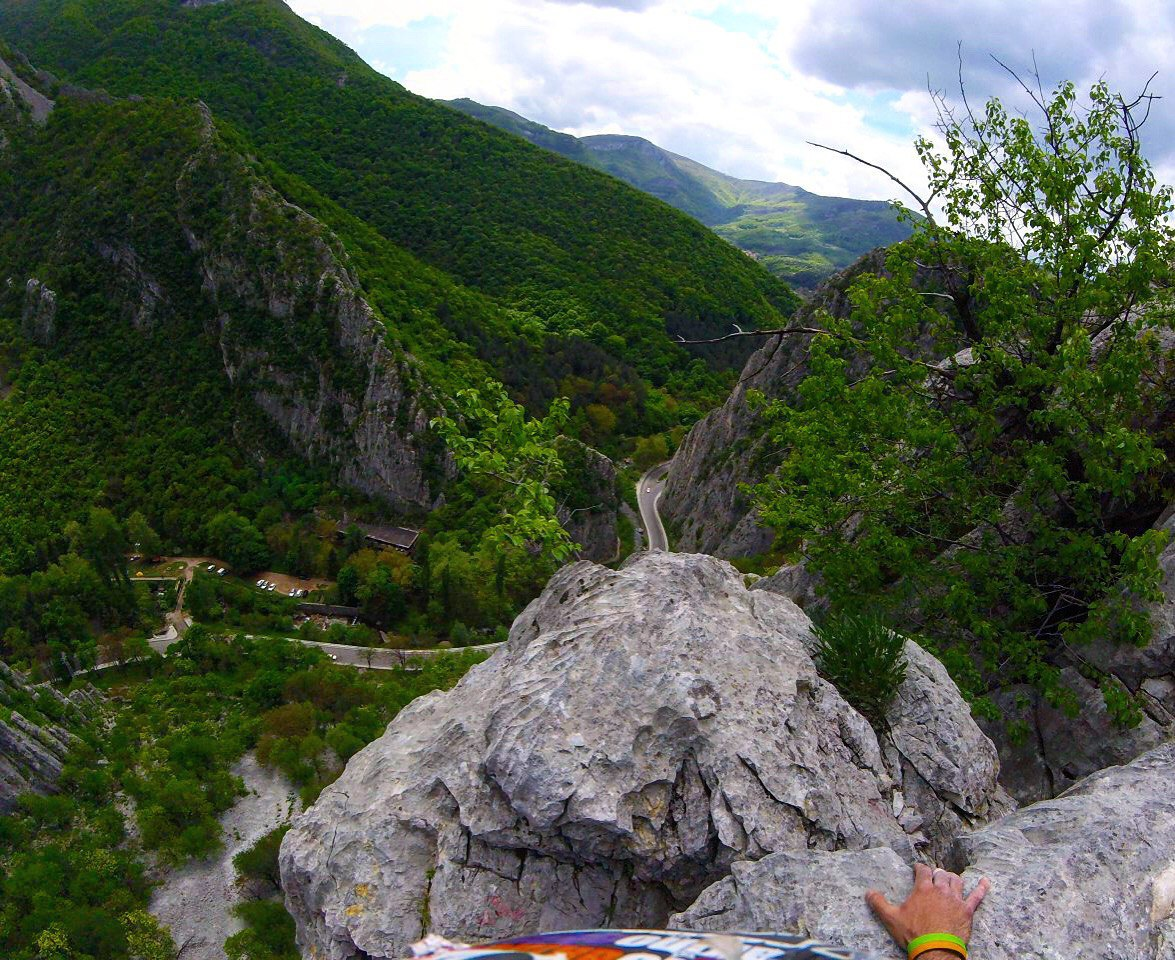
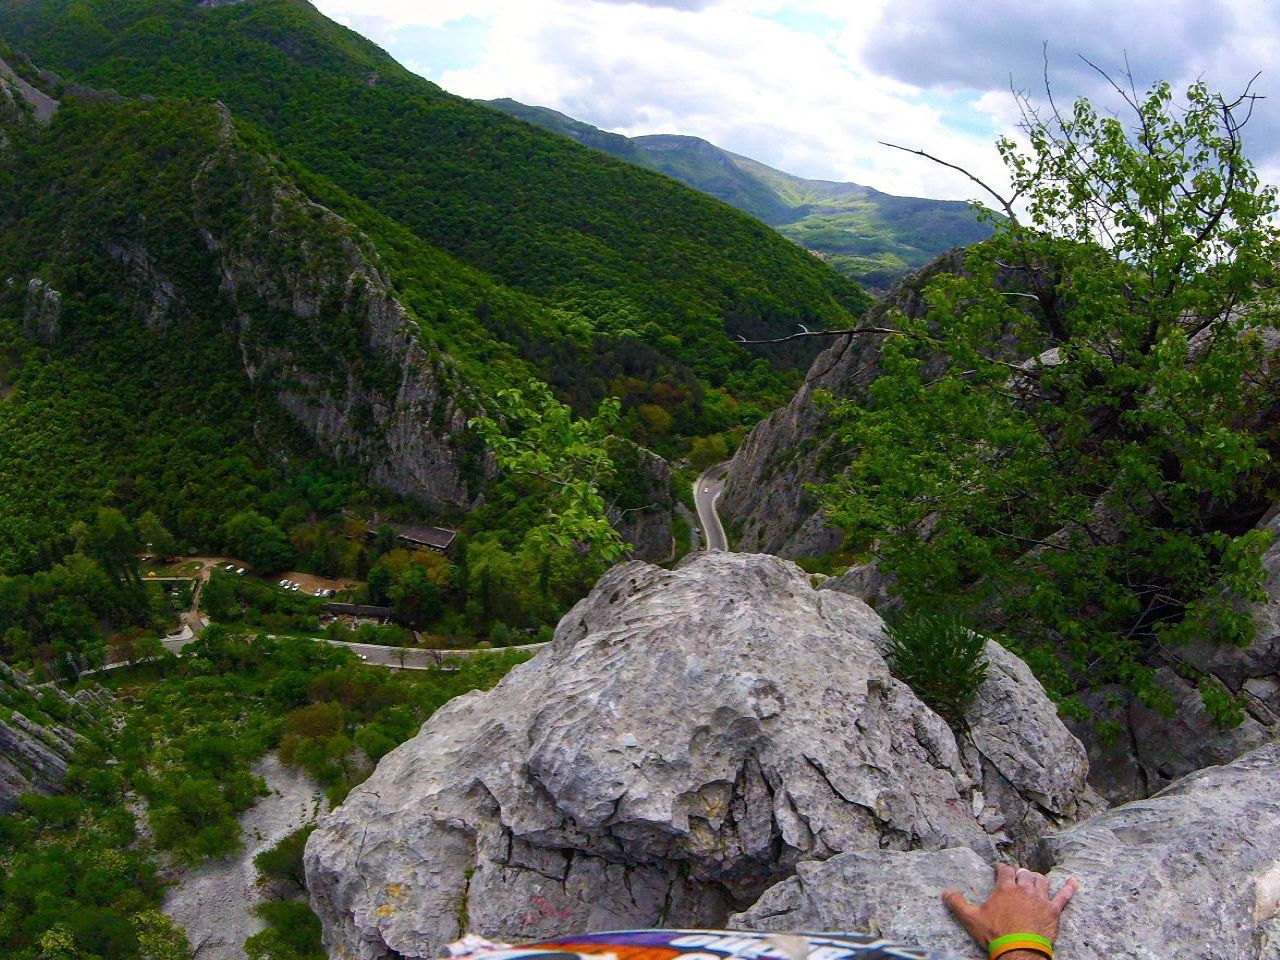
Resize updates.

Changed region(s): [[0.7966, 0.0938, 1.0, 0.2812]]

diff --git a/styles/glide.theme.min.css b/styles/glide.theme.min.css
@@ -1,1 +1,91 @@
-.glide__arrow{position:absolute;display:block;top:50%;z-index:2;color:white;text-transform:uppercase;padding:9px 12px;background-color:transparent;border:2px solid rgba(255,255,255,0.5);border-radius:4px;box-shadow:0 0.25em 0.5em 0 rgba(0,0,0,0.1);text-shadow:0 0.25em 0.5em rgba(0,0,0,0.1);opacity:1;cursor:pointer;transition:opacity 150ms ease, border 300ms ease-in-out;transform:translateY(-50%);line-height:1}.glide__arrow:focus{outline:none}.glide__arrow:hover{border-color:white}.glide__arrow--left{left:2em}.glide__arrow--right{right:2em}.glide__arrow--disabled{opacity:0.33}.glide__bullets{position:absolute;z-index:2;bottom:2em;left:50%;display:inline-flex;list-style:none;transform:translateX(-50%)}.glide__bullet{background-color:rgba(255,255,255,0.5);width:9px;height:9px;padding:0;border-radius:50%;border:2px solid transparent;transition:all 300ms ease-in-out;cursor:pointer;line-height:0;box-shadow:0 0.25em 0.5em 0 rgba(0,0,0,0.1);margin:0 0.25em}.glide__bullet:focus{outline:none}.glide__bullet:hover,.glide__bullet:focus{border:2px solid white;background-color:rgba(255,255,255,0.5)}.glide__bullet--active{background-color:white}.glide--swipeable{cursor:grab;cursor:-moz-grab;cursor:-webkit-grab}.glide--dragging{cursor:grabbing;cursor:-moz-grabbing;cursor:-webkit-grabbing}
+.glide__arrow {
+    position: absolute;
+    display: block;
+    top: 50%;
+    z-index: 2;
+    color: white;
+    text-transform: uppercase;
+    padding: 9px 12px;
+    background-color: #4e705578;
+    border: 2px solid rgba(255, 255, 255, 0.5);
+    border-radius: 4px;
+    box-shadow: 0 0.25em 0.5em 0 rgba(0, 0, 0, 0.1);
+    text-shadow: 0 0.25em 0.5em rgba(0, 0, 0, 0.1);
+    opacity: 1;
+    cursor: pointer;
+    transition: opacity 150ms ease, border 300ms ease-in-out;
+    transform: translateY(-50%);
+    line-height: 1
+}
+
+.glide__arrow:focus {
+    outline: none
+}
+
+.glide__arrow:hover {
+    border-color: white;
+    background-color: #4e7055e5;
+
+}
+
+.glide__arrow--left {
+    left: 2em
+}
+
+.glide__arrow--right {
+    right: 2em
+}
+
+.glide__arrow--disabled {
+    opacity: 0.33
+}
+
+.glide__bullets {
+    position: absolute;
+    z-index: 2;
+    bottom: 2em;
+    left: 50%;
+    display: inline-flex;
+    list-style: none;
+    transform: translateX(-50%)
+}
+
+.glide__bullet {
+    background-color: rgba(255, 255, 255, 0.5);
+    width: 9px;
+    height: 9px;
+    padding: 0;
+    border-radius: 50%;
+    border: 2px solid transparent;
+    transition: all 300ms ease-in-out;
+    cursor: pointer;
+    line-height: 0;
+    box-shadow: 0 0.25em 0.5em 0 rgba(0, 0, 0, 0.1);
+    margin: 0 0.25em
+}
+
+.glide__bullet:focus {
+    outline: none
+}
+
+.glide__bullet:hover,
+.glide__bullet:focus {
+    border: 2px solid white;
+    background-color: rgba(255, 255, 255, 0.5)
+}
+
+.glide__bullet--active {
+    background-color: white
+}
+
+.glide--swipeable {
+    cursor: grab;
+    cursor: -moz-grab;
+    cursor: -webkit-grab
+}
+
+.glide--dragging {
+    cursor: grabbing;
+    cursor: -moz-grabbing;
+    cursor: -webkit-grabbing
+}

diff --git a/src/interests.js b/src/interests.js
@@ -39,7 +39,7 @@ const interestsTemplate = () => html`
       <li class="glide__slide"><img class="certs plus" src="img/hobby/h2.jpg" alt=""></li>
       <li class="glide__slide"><img class="certs plus" src="img/hobby/y1.JPG" alt=""></li>
       <li class="glide__slide"><img class="certs plus" src="img/hobby/g3.jpg" alt=""></li>
-      <li class="glide__slide"><img class="certs plus" src="img/hobby/b2.jpg" alt=""></li>
+      
       <li class="glide__slide"><img class="certs plus" src="img/hobby/c2.jpg" alt=""></li>
       <li class="glide__slide"><img class="certs plus" src="img/hobby/h1.jpg" alt=""></li>
       <li class="glide__slide"><img class="certs plus" src="img/hobby/g7.jpg" alt=""></li>

diff --git a/styles/style.scss b/styles/style.scss
@@ -444,14 +444,18 @@ display: none;
 }
 
 .copied{
+    color: rgb(255, 255, 255) !important;
+    font-size: 1.5rem;
+    letter-spacing: 2px;
     opacity: 0;
     position: absolute;
     top: -34px;
     left: 389px;
-    color: white;
+
     border: solid 1px green;
     padding: 2px 22px 2px 22px;
     border-radius: 17px;
+    background: #74957b;;
 }
 .mail-magic{
     position: relative;

diff --git a/styles/style.css b/styles/style.css
@@ -474,14 +474,17 @@ display: none;
 }
 
 .copied {
+  color: white !important;
+  font-size: 1.5rem;
+  letter-spacing: 2px;
   opacity: 0;
   position: absolute;
   top: -34px;
   left: 389px;
-  color: white;
   border: solid 1px green;
   padding: 2px 22px 2px 22px;
   border-radius: 17px;
+  background: #74957b;
 }
 
 .mail-magic {
